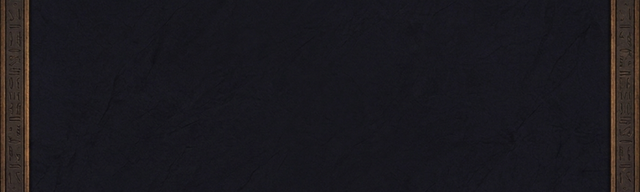
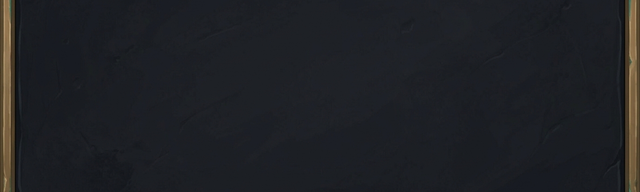
The marble menu kit is live: slate panel, marble ribbon, bronze and slate buttons
The four painted menu textures were the indigo art the owner called cheap,
held back in code for a day while the game drew every panel itself. They
are marble and verdigris bronze now, from `tools/batch/ui_marble.sh`: a
slab of slate in a bronze frame with acanthus corners and nothing in the
middle, a plain marble title plate, a bar of solid bronze with scroll
bands at its ends, and a plain slate plate with a bronze border. The two
buttons took three rolls — Gemini kept painting the bar as an object on a
marble ground, then made the bar itself marble — until the prompt said
the bar IS the image, edge to edge, and the metal is metal.

The nine-slice caps are measured off the paintings (the corners reach
76 px of 512, the bands 68 px of 640), so only flat stone is ever
stretched, and the ribbon's title is ink: gold on white marble read as
nothing. The hold-back and its list are gone.

Claude-Session: https://claude.ai/code/session_01UWm8wBqgkvhU3PN6wHTkXq

Changed region(s): [[0.9375, 0.0, 1.0, 1.0], [0.0, 0.0, 0.0625, 1.0]]

diff --git a/Pantheon/UI/Common/Theme.swift b/Pantheon/UI/Common/Theme.swift
@@ -435,10 +435,13 @@ enum Chrome {
         EdgeInsets(top: top / shrink, leading: leading / shrink, bottom: bottom / shrink, trailing: trailing / shrink)
     }
 
-    /// ui_panel: 512² → 171pt at full size. Corner ornament reaches ~18% in.
-    static let panelInsets = scaled(31, 31, 31, 31)
-    /// ui_button_gold: 640×192 → 213×64pt at full size. Ornate ends are ~22% of the width.
-    static let goldButtonInsets = scaled(8, 47, 8, 47)
+    /// ui_panel: 512² → 171pt at full size. The marble kit's acanthus corners
+    /// reach 76 px in (measured), so the caps are 78: everything an ornament
+    /// touches stays fixed and only flat slate is stretched.
+    static let panelInsets = scaled(78, 78, 78, 78)
+    /// ui_button_gold: 640×192 → 213×64pt at full size. The bronze bar's
+    /// scroll bands reach 68 px in (measured); the caps are 70.
+    static let goldButtonInsets = scaled(8, 70, 8, 70)
     /// ui_button_dark: same size, plain ends.
     static let darkButtonInsets = scaled(10, 17, 10, 17)
     /// ui_ribbon: 640×128 → 213×43pt at full size.
@@ -454,27 +457,13 @@ enum Chrome {
     /// The dark plate's ends are plain, so this is air rather than clearance.
     static let darkButtonLabelInset: CGFloat = 18
 
-    /// The four painted MENU textures — the panel, the ribbon and the two
-    /// buttons — were painted for the indigo-and-gold palette the owner asked
-    /// to be replaced on 2026-09-10. Until they are repainted in marble and
-    /// bronze they are held back, so the whole game speaks one language rather
-    /// than showing violet on every panel wide enough to earn the painted one
-    /// and slate on every panel that is not.
-    ///
-    /// The SIX RARITY FRAMES are not in this list and keep their painted art.
-    /// Rarity is meant to be the loudest thing on the screen and its metals
-    /// are not part of the menu palette — a legendary frame should look like
-    /// treasure against any interface.
-    private static let awaitingRepaint: Set<String> = [
-        "ui_panel", "ui_ribbon", "ui_button_gold", "ui_button_dark",
-    ]
-
-    /// Flip to false the moment the marble kit lands, and delete this along
-    /// with the set above.
-    static let holdBackOldMenuArt = true
+    /// The marble-and-verdigris kit landed on 2026-09-11 (`tools/batch/
+    /// ui_marble.sh`: three rolls for the buttons, which Gemini kept painting
+    /// as objects on a marble ground until the prompt said the bar IS the
+    /// image). The indigo kit it replaces was held back here for a day so the
+    /// game spoke one language while it waited.
 
     static func slice(_ name: String, _ insets: EdgeInsets) -> Image? {
-        if holdBackOldMenuArt && awaitingRepaint.contains(name) { return nil }
         guard let ui = image(name) else { return nil }
         return Image(uiImage: ui).resizable(capInsets: insets, resizingMode: .stretch)
     }

diff --git a/Pantheon/UI/Common/Components.swift b/Pantheon/UI/Common/Components.swift
@@ -582,13 +582,13 @@ struct SectionHeader: View {
                 Text(title.uppercased())
                     .font(Theme.title(12))
                     .tracking(1.6)
-                    .foregroundStyle(Theme.gold)
+                    .foregroundStyle(Theme.ink)
                     .shadow(color: .black.opacity(0.8), radius: 1, y: 1)
                 Spacer(minLength: 8)
                 if let accessory {
                     Text(accessory)
                         .font(Theme.numeric(11))
-                        .foregroundStyle(Theme.textPrimary)
+                        .foregroundStyle(Theme.ink.opacity(0.72))
                 }
             }
             .padding(.horizontal, 14)
